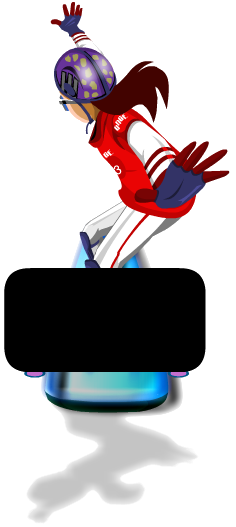
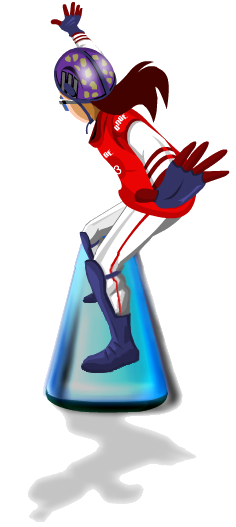
Removed medal cars, updated snowboarder, start sound playing after countdown, scorecard medal slider reversed

Changed region(s): [[0.0, 0.4554, 0.8898, 0.759]]

diff --git a/src/html5/racecar/src/main.js b/src/html5/racecar/src/main.js
@@ -70,7 +70,7 @@ var FluencyApp = KeyboardLayer.extend({
     
     endOfGameCallback : null,   //Holds the name of the window function to call back to at the end of the game
     
-    version     : 'v 0.4.0',    // Current version number
+    version     : 'v 0.4.1',    // Current version number
     
     // Remote resources loaded successfully, proceed as normal
     runRemotely: function() {
@@ -441,7 +441,7 @@ var FluencyApp = KeyboardLayer.extend({
             dropoffDist : -10,
             delOnDrop   : false,
         }
-        
+
         // Ghost cars representing medal cutoffs
         // TODO: Make seperate class, support lines in addition to cars
         for(var i=0; i<3; i+= 1) {
@@ -449,7 +449,7 @@ var FluencyApp = KeyboardLayer.extend({
             car.set('opacity', 192);
         
             opts['content'] = car
-            medalCars[i] = PNode.create(opts)
+            medalCars[i] = PNode.create({})
             medalCars[i].zVelocity = RC.finishLine / RC.times[i+1];
             
             events.addListener(medalCars[i], 'addMe', this.addMeHandler);
@@ -491,8 +491,6 @@ var FluencyApp = KeyboardLayer.extend({
         setTimeout(function () { that.get('cdt').set('string', 'GO!'); that.get('cdt').set('position', new geo.Point(300, 300)); }, 2250)
         setTimeout(function () { that.removeChild(that.get('cdt')); }, 2750)
         
-        this.audioMixer.playSound('start');
-        
         // Catch window unloads at this point as aborts
         $(window).unload(this.endOfGame.bind(this, null));
     },
@@ -520,6 +518,8 @@ var FluencyApp = KeyboardLayer.extend({
         this.musicMixer.loopSound('bg_slow');
         this.musicMixer.getSound('bg_fast').setVolume(0);
         this.musicMixer.loopSound('bg_fast');
+        
+        this.audioMixer.playSound('start');
     },
     
 	// Pauses the dashboard and medal cars
@@ -530,7 +530,7 @@ var FluencyApp = KeyboardLayer.extend({
         
         var mc = this.get('medalCars');
         
-        for(var i=0; i<3; i+=1) {
+        for(var i=0; i<mc.length; i+=1) {
             mc[i].prepause = mc[i].zVelocity;
             mc[i].zVelocity = 0;
         }
@@ -749,7 +749,7 @@ var FluencyApp = KeyboardLayer.extend({
             
             // Update medal car velocities to account for penalty time
             var c = this.get('medalCars')
-            for(var i=0; i<3; i+=1) {
+            for(var i=0; i<c.length; i+=1) {
                 var rd = RC.finishLine - c[i].get('zCoordinate');
                 var rt = RC.times[i+1] - t;
                 

diff --git a/src/html5/racecar/src/EndOfGameDisplay.js b/src/html5/racecar/src/EndOfGameDisplay.js
@@ -184,11 +184,11 @@ EndOfGameDisplay = cocos.nodes.Node.extend({
             
             var x;
             if(this.get('abort'))
-                x = 380;
+                x = 0;
             else if(tt > RC.times[3])
-                x = 290 + 90 * Math.min(1, tt / RC.times[4]);
+                x = 90 - 90 * Math.min(1, tt / RC.times[4]);
             else
-                x = 290 * (tt - RC.times[0]) / (RC.times[3] - RC.times[0]);
+                x = 380 - 290 * (tt - RC.times[0]) / (RC.times[3] - RC.times[0]);
             
             MOT.create(this.get('sliderX'), x, 1.0).bind(this, 'sliderX');
         }
@@ -251,10 +251,13 @@ EndOfGameDisplay = cocos.nodes.Node.extend({
         ctx.fillRect(0, 0, 400, 450);
         
         // Draw the medal meter line
-        var offset = 10;
+        var offset = 100;
         
-        var run = this.proportions(1) * 290;
-        ctx.fillStyle = RC.gold;
+        ctx.fillStyle = RC.noMedal;
+        ctx.fillRect(10, 160, 90, 20);
+        
+        run = this.proportions(3) * 290;
+        ctx.fillStyle = RC.bronze;
         ctx.fillRect(offset, 160, run, 20);
         offset += run;
         
@@ -263,13 +266,10 @@ EndOfGameDisplay = cocos.nodes.Node.extend({
         ctx.fillRect(offset, 160, run, 20);
         offset += run;
         
-        run = this.proportions(3) * 290;
-        ctx.fillStyle = RC.bronze;
+        var run = this.proportions(1) * 290;
+        ctx.fillStyle = RC.gold;
         ctx.fillRect(offset, 160, run, 20);
         offset += run;
-        
-        ctx.fillStyle = RC.noMedal;
-        ctx.fillRect(offset, 160, 390 - offset, 20);
         
         // Draw the indicator for the medal meter line
         var x = this.get('sliderX');
